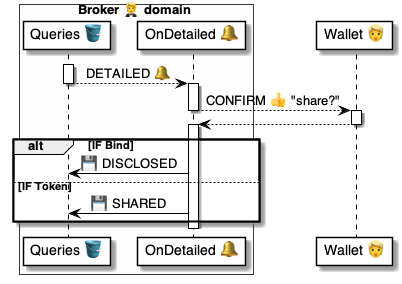
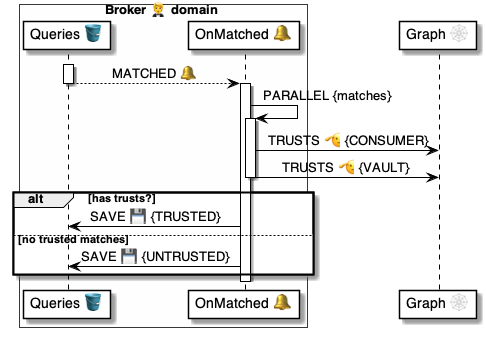
.

diff --git a/4 ⚙ Solution/20 🧑🦰 UI/Brokers 🤵/🤵🪣 Broker tables/Queries 💼 table/🪣 Queries/🤵 Broker.Queries 🪣 table.md b/4 ⚙ Solution/20 🧑🦰 UI/Brokers 🤵/🤵🪣 Broker tables/Queries 💼 table/🪣 Queries/🤵 Broker.Queries 🪣 table.md
@@ -46,16 +46,17 @@ Parents:
 
 <br/>
 
-The [Item 🛢 Handlers](<../../../../../30 🧩 Data/Datasets 🪣/🪣🛢 Itemized datasets/Item 🛢 Handlers.md>) are: [`Queried`](<../🪣🧱 10 Queried 🔔 event/🤵 OnQueryQueried 🔔 handler.md>) [`Abrupt`](<../🪣🧱 15 Abrupt 🔔 event/🤵 OnQueryAbrupt 🔔 handler.md>) [`Informed`](<../🪣🧱 20 Informed 🔔 event/🤵 OnQueryInformed 🔔 handler.md>) [`Detailed`](<../🪣🧱 40  🔔 event/🤵 OnQueryDetailed 🔔 handler.md>) [`Disclosed`](<../🪣🧱 50 Disclosed 🔔 event/🤵 OnQueryDisclosed 🔔 handler.md>) [`Shared`](<../🪣🧱 55 Shared 🔔 event/🤵 OnQueryShared 🔔 handler.md>)
+The [Item 🛢 Handlers](<../../../../../30 🧩 Data/Datasets 🪣/🪣🛢 Itemized datasets/Item 🛢 Handlers.md>) are: [`Queried`](<../🪣🧱 10 Queried 🔔 event/🤵 OnQueryQueried 🔔 handler.md>) [`Abrupt`](<../🪣🧱 15 Abrupt 🔔 event/🤵 OnQueryAbrupt 🔔 handler.md>) [`Informed`](<../🪣🧱 20 Informed 🔔 event/🤵 OnQueryInformed 🔔 handler.md>) [`Matched`](<../🪣🧱 30 Matched 🔔 event/🤵 OnQueryMatched 🔔 handler.md>) [`Trusted`](<../🪣🧱 40 Trusted 🔔 event/🤵 OnQueryTrusted 🔔 handler.md>)  [`Disclosed`](<../🪣🧱 50 Disclosed 🔔 event/🤵 OnQueryDisclosed 🔔 handler.md>) [`Shared`](<../🪣🧱 55 Shared 🔔 event/🤵 OnQueryShared 🔔 handler.md>)
 
 ```yaml
 Handlers: 
     QUERIED              >> OnQueryQueried:   # Informed Schemas?
     QUERIED > ABRUPT     >> OnQueryAbrupt:    # Sends a FAIL
-    QUERIED > INFORMED   >> OnQueryInformed:  # Details the Query
-    INFORMED > DETAILED  >> OnQueryDetailed:  # Asks confirmation
-    DETAILED > DISCLOSED >> OnQueryDisclosed: # Binds by Vaults
-    DETAILED > SHARED    >> OnQueryShared:    # Tokens by Wallets
+    QUERIED > INFORMED   >> OnQueryInformed:  # Matched Schemas?
+    INFORMED > MATCHED   >> OnQueryMatched:   # Wallet trusted?
+    MATCHED > TRUSTED    >> OnQueryTrusted:   # Asks confirmation
+    TRUSTED > DISCLOSED  >> OnQueryDisclosed: # Binds by Vaults
+    TRUSTED > SHARED     >> OnQueryShared:    # Tokens by Wallets
 ```
 
 
@@ -97,6 +98,28 @@ Hook: <hook-uuid>       # Hook to reply to the Consumer
 Consumer: any-host.dom  # Sender of the Query
 Schemas:                # List of acceptable schemas
   - any-authority.dom/ANY-SCHEMA  # Requested Schema 1
+```
+
+From [`OnQueryInformed` 🔔 handler](<../🪣🧱 20 Informed 🔔 event/🤵 OnQueryInformed 🔔 handler.md>)
+
+```yaml
+Matches: # All Binds and Tokens matching the Schemas        
+  - Type: TOKEN
+    Title: Any Token, by Any Issuer
+    Domain: any-issuer.dom
+    ID: <token-uuid>
+    Schema: any-authority.dom/ANY-SCHEMA  
+```
+
+From [`OnQueryMatched` 🔔 handler](<../🪣🧱 30 Matched 🔔 event/🤵 OnQueryMatched 🔔 handler.md>)
+
+```yaml
+Trusted: # Only the Binds and Tokens mutually trusted
+  - Type: BIND
+    Title: Any Bind, by Any Vault
+    Domain: any-vault.dom
+    ID: <bind-uuid>
+    Schema: any-authority.dom/ANY-SCHEMA  
 ```
 
 From [`OnQueryDisclosed` 🔔 handler](<../🪣🧱 50 Disclosed 🔔 event/🤵 OnQueryDisclosed 🔔 handler.md>)

diff --git a/4 ⚙ Solution/20 🧑🦰 UI/Brokers 🤵/🤵🪣 Broker tables/Queries 💼 table/🪣🧱 20 Informed 🔔 event/🤵 OnQueryInformed 🔔 handler.md b/4 ⚙ Solution/20 🧑🦰 UI/Brokers 🤵/🤵🪣 Broker tables/Queries 💼 table/🪣🧱 20 Informed 🔔 event/🤵 OnQueryInformed 🔔 handler.md
@@ -13,55 +13,40 @@
 
 # Get the candidate Binds
 - SELECT >> $queryBinds:
-    AllOf: Bind, Vault, Title
+    AllOf: 
+        Title:
+        Type: BIND
+        ID: Bind
+        Domain: Vault
+        Schema:
     FROM: $Query.Wallet.QueryBinds
     WHERE: Schema.IsIn($Query.Schemas)
 
 # Get the candidate Tokens
 - SELECT >> $queryTokens:
-    AllOf: Token, Issuer, Title
+    AllOf: 
+        Title:
+        Type: TOKEN
+        ID: Token
+        Domain: Issuer
+        Schema:
     FROM: $Query.Wallet.QueryTokens
     WHERE: Schema.IsIn($Query.Schemas)
 
-# Verify the trust of each token
-- PARALLEL|$queryTokens|$token:
+# Merge the lists
+PUT >> $matches:
+    $queryTokens
+    $queryBinds
 
-    # Ask the Graph
-    - TRUSTS >> $trusts:
-        Truster: $Query.Consumer
-        Trusted: $token.Issuer
-        Schema: $token.Schema
-        Role: VAULT
-
-    # If trusted, add to the trusted list
-    - IF|$trusts:
-        PUT +> $trusted:
-            Type: TOKEN
-            Schema: $token.Schema
-            Domain: $token.Issuer
-            Title: $token.Title
-
-# Verify the trust of each token
-- PARALLEL|$queryTokens|$token:
-
-    # Ask the Graph
-    - TRUSTS >> $trusts:
-        Truster: $Query.Consumer
-        Trusted: $token.Issuer
-        Schema: $token.Schema
-        Role: VAULT
-
-    # If trusted, add to the trusted list
-    - IF|$trusts:
-        PUT +> $trusted:
-            Type: TOKEN
-            Schema: $token.Schema
-            Domain: $token.Issuer
-            Title: $token.Title
+# Add the matches to the Query item
+- SAVE|$Query:
+    Matches: $matches
+    .State: .If($matches, MATCHED, UNMATCHED)
 ```
 
 Uses||
 |-|-
-| [Commands ⌘](<../../../../../35 💬 Chats/Scripts 📃/Command ⌘.md>) | [`TRUSTS`](<../../../../../37 Scripts 📃/📃 Commands ⌘/⌘ for messages 📨/TRUSTS 🫡/🫡 TRUSTS ⌘ cmd.md>)
+| [Commands ⌘](<../../../../../35 💬 Chats/Scripts 📃/Command ⌘.md>) | [`SAVE`](<../../../../../37 Scripts 📃/📃 Commands ⌘/⌘ for datasets 🪣/SAVE 💾/💾 SAVE ⌘ cmd.md>) [`SELECT`](<../../../../../37 Scripts 📃/📃 Commands ⌘/⌘ for holders 🧠/SELECT 🅾/🅾 SELECT ⌘ cmd.md>)
 | [Datasets 🪣](<../../../../../30 🧩 Data/Datasets 🪣/🪣 Dataset.md>) | [`Queries`](<../🪣 Queries/🤵 Broker.Queries 🪣 table.md>) [`Wallets`](<../../Wallets 🧑🦰 table/🪣 Wallets/🤵 Broker.Wallets 🪣 table.md>) [`Tokens`](<../../Tokens 🎫 table/🪣 Tokens/🤵 Broker.Tokens 🪣 table.md>) [`Binds`](<../../Binds 🔗 table/🪣 Binds/🤵 Broker.Binds 🪣 table.md>)
+| [{Functions} 🐍](<../../../../../35 💬 Chats/Scripts 📃/Function 🐍.md>) | [`.IsIn`](<../../../../../37 Scripts 📃/📃 Functions 🐍/🐍 System 🔩 functions/IsIn ⓕ.md>) [`.If`](<../../../../../37 Scripts 📃/📃 Functions 🐍/🐍 System 🔩 functions/If ⓕ.md>)
 |

diff --git a/4 ⚙ Solution/20 🧑🦰 UI/Brokers 🤵/🤵🪣 Broker tables/Queries 💼 table/🪣🧱 30 Matched 🔔 event/🤵 OnQueryMatched 🔔 handler.md b/4 ⚙ Solution/20 🧑🦰 UI/Brokers 🤵/🤵🪣 Broker tables/Queries 💼 table/🪣🧱 30 Matched 🔔 event/🤵 OnQueryMatched 🔔 handler.md
@@ -1,14 +1,46 @@
+# 🤵 OnQueryMatched 🔔 handler
+
+
+## Diagram
+
+![alt text](<🤵 OnQueryMatched ⚙ uml.png>)
+
+<br/>
+
+## Script
+
 ```yaml
-📃 OnQueryDetailed:
+📃 OnQueryMatched:
 
-# Load the Chat
-- CHAT|$Query.Chat
+# Verify the trust of each match
+- PARALLEL|$Query.Matches|$match:
 
-# Stop if no candidates are available.
-CASE|$Query.Candidates.Length:
-    0: 
-        - SAVE|$Query:
-            Status: SUGGEST
-    1: 
-        - CONFIRM|Share?:
+    # Ask if the Consumer trusts the Vault
+    - TRUSTS >> $trustedVault:
+        Truster: $Query.Consumer
+        Trusted: $match.Domain
+        Schema: $match.Schema
+        Role: VAULT
+
+    # Ask the Vault trusts the Consumer
+    - TRUSTS >> $trustedConsumer:
+        Truster: $match.Domain
+        Trusted: $Query.Consumer
+        Schema: $match.Schema
+        Role: CONSUMER
+
+    # If trusted, add to the trusted list
+    - IF|.AllOf($trustedVault, $trustedConsumer):
+        PUT|$match +> $trusted:
+
+# Set the trusted matches to the Query item
+- SAVE|$Query:
+    Trusted: $trusted
+    .State: .If($trusted, TRUSTED, UNTRUSTED)
 ```
+
+Uses ||
+|-|-
+| [Commands ⌘](<../../../../../35 💬 Chats/Scripts 📃/Command ⌘.md>) | [`IF`](<../../../../../37 Scripts 📃/📃 Commands ⌘/⌘ for control ▶/IF ⤵/⤵ IF ⌘ cmd.md>) [`PARALLEL`](<../../../../../37 Scripts 📃/📃 Commands ⌘/⌘ for control ▶/PARALLEL *⃣/*⃣ PARALLEL ⌘ cmd.md>) [`PUT`](<../../../../../37 Scripts 📃/📃 Commands ⌘/⌘ for holders 🧠/PUT ⬇/⬇ PUT ⌘ cmd.md>) [`SAVE`](<../../../../../37 Scripts 📃/📃 Commands ⌘/⌘ for datasets 🪣/SAVE 💾/💾 SAVE ⌘ cmd.md>) [`TRUSTS`](<../../../../../37 Scripts 📃/📃 Commands ⌘/⌘ for messages 📨/TRUSTS 🫡/🫡 TRUSTS ⌘ cmd.md>)  |
+| [Datasets 🪣](<../../../../../30 🧩 Data/Datasets 🪣/🪣 Dataset.md>) | [`Queries`](<../🪣 Queries/🤵 Broker.Queries 🪣 table.md>) 
+| [{Functions} 🐍](<../../../../../35 💬 Chats/Scripts 📃/Function 🐍.md>) | [`.If`](<../../../../../37 Scripts 📃/📃 Functions 🐍/🐍 System 🔩 functions/If ⓕ.md>) 

diff --git a/4 ⚙ Solution/37 Scripts 📃/📃 Functions 🐍/🐍 System 🔩 functions/If ⓕ.md b/4 ⚙ Solution/37 Scripts 📃/📃 Functions 🐍/🐍 System 🔩 functions/If ⓕ.md
@@ -1,0 +1,25 @@
+# 😃🔩 Talker `{.If}` function
+
+> Part of [{Function} 🐍](<../../../35 💬 Chats/Scripts 📃/Function 🐍.md>)
+
+## FAQ
+
+
+1. **What is the .If function?**
+
+    `{.If}`
+    * is a [{Function} 🐍](<../../../35 💬 Chats/Scripts 📃/Function 🐍.md>) 
+    * that evaluates a 1st boolean input, 
+    * then returns of 2nd input if `True` 
+    * or else the 3rd input if `False`.
+
+    ---
+    <br/>
+
+1. **What's the syntax of .If?**
+    
+    ```yaml
+    .If(Condition, ValueIfTrue, ValueIfFalse)
+    ```
+    ---
+    <br/>

diff --git a/4 ⚙ Solution/20 🧑🦰 UI/Brokers 🤵/🤵🪣 Broker tables/Queries 💼 table/🪣🧱 40 Trusted 🔔 event/🤵 OnQueryTrusted 🔔 handler.md b/4 ⚙ Solution/20 🧑🦰 UI/Brokers 🤵/🤵🪣 Broker tables/Queries 💼 table/🪣🧱 40 Trusted 🔔 event/🤵 OnQueryTrusted 🔔 handler.md
@@ -4,11 +4,9 @@
 # Load the Chat
 - CHAT|$Query.Chat
 
-# Stop if no candidates are available.
-CASE|$Query.Candidates.Length:
-    0: 
-        - SAVE|$Query:
-            Status: SUGGEST
+
+
+CASE|$Query.Trusted:
     1: 
         - CONFIRM|Share?:
 ```
